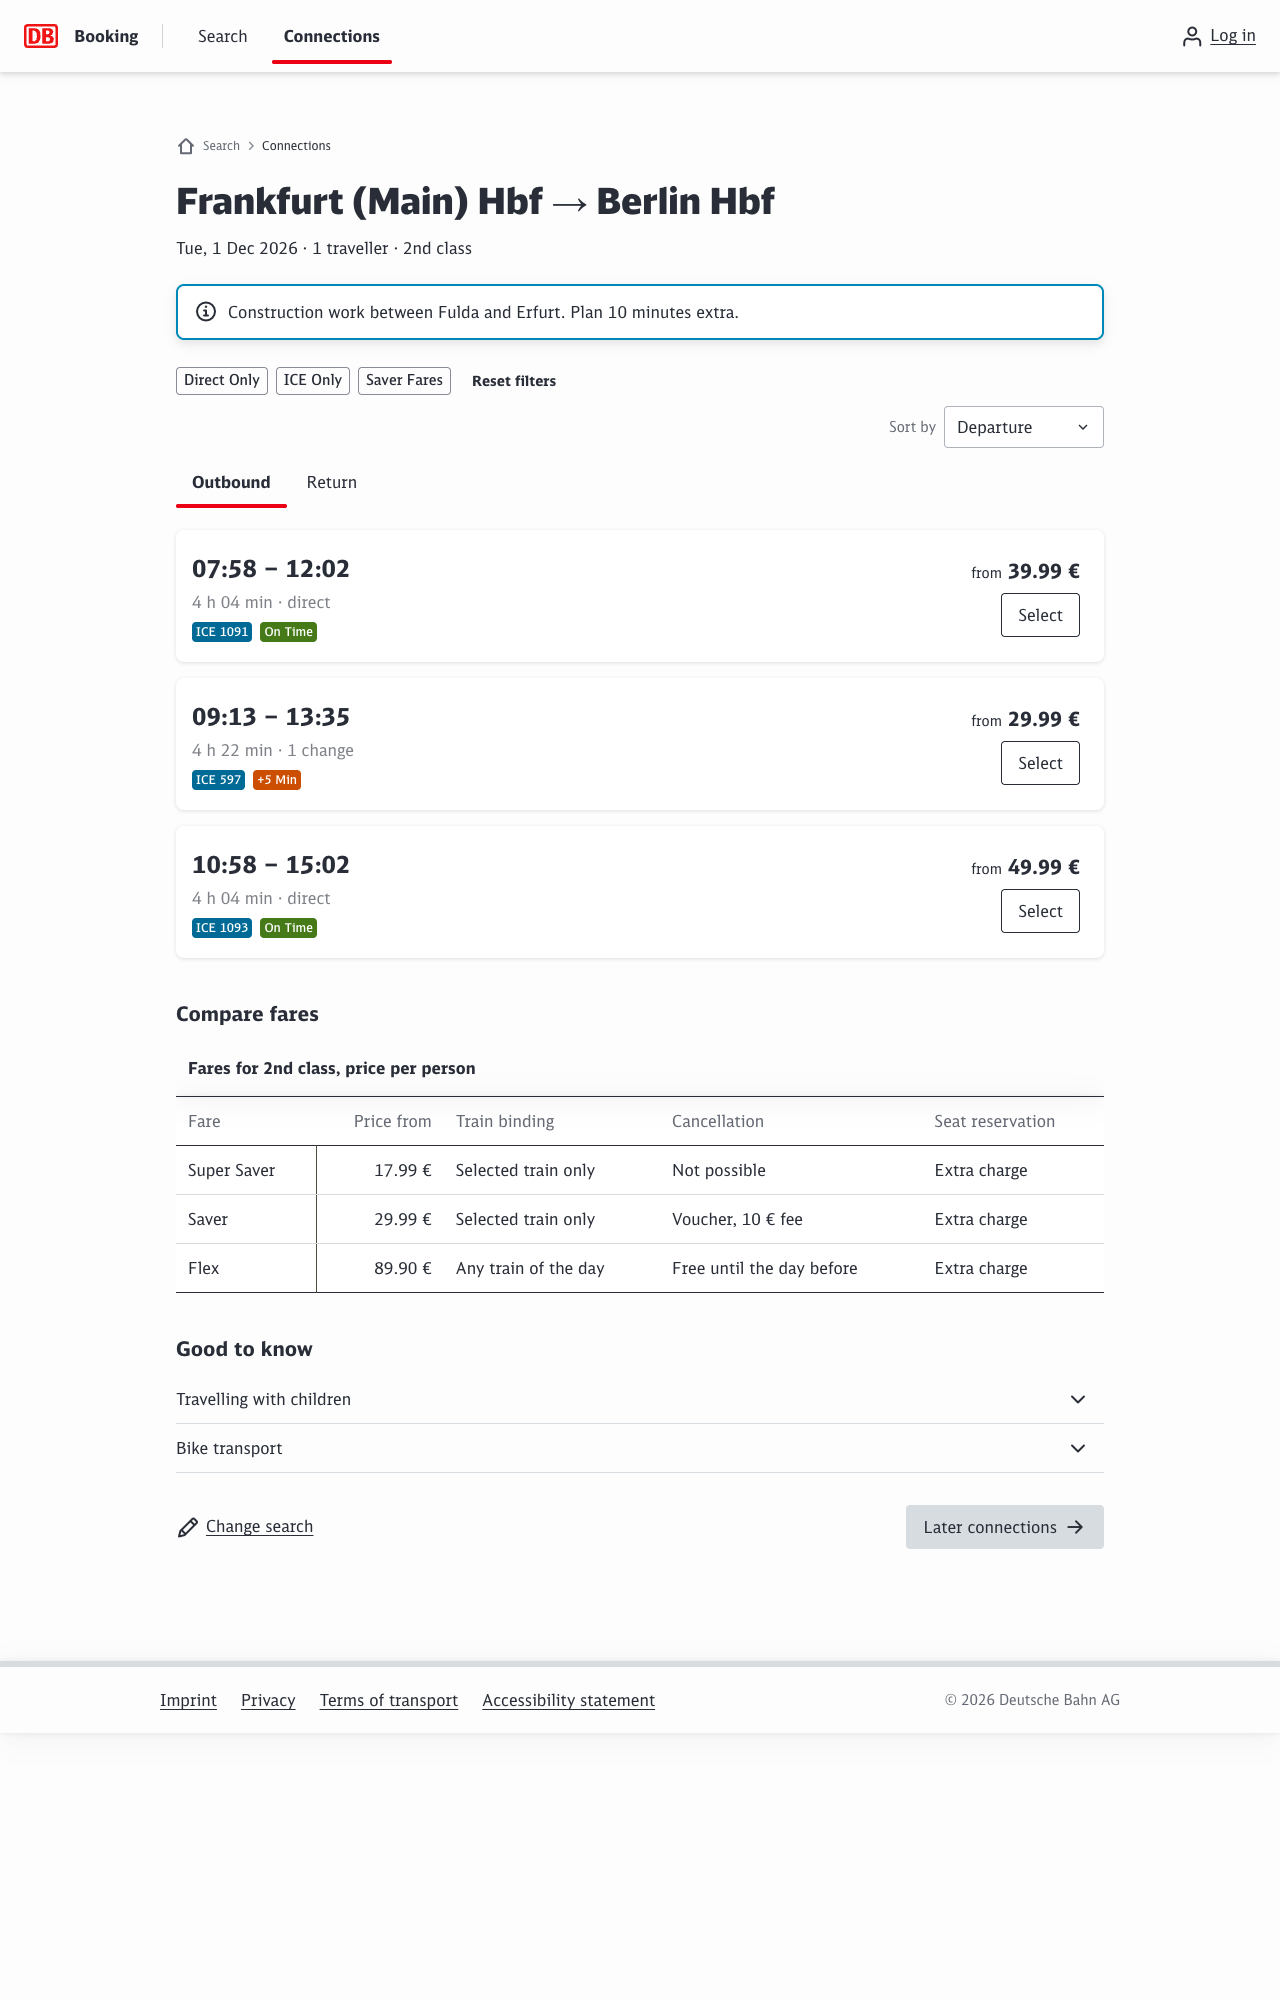
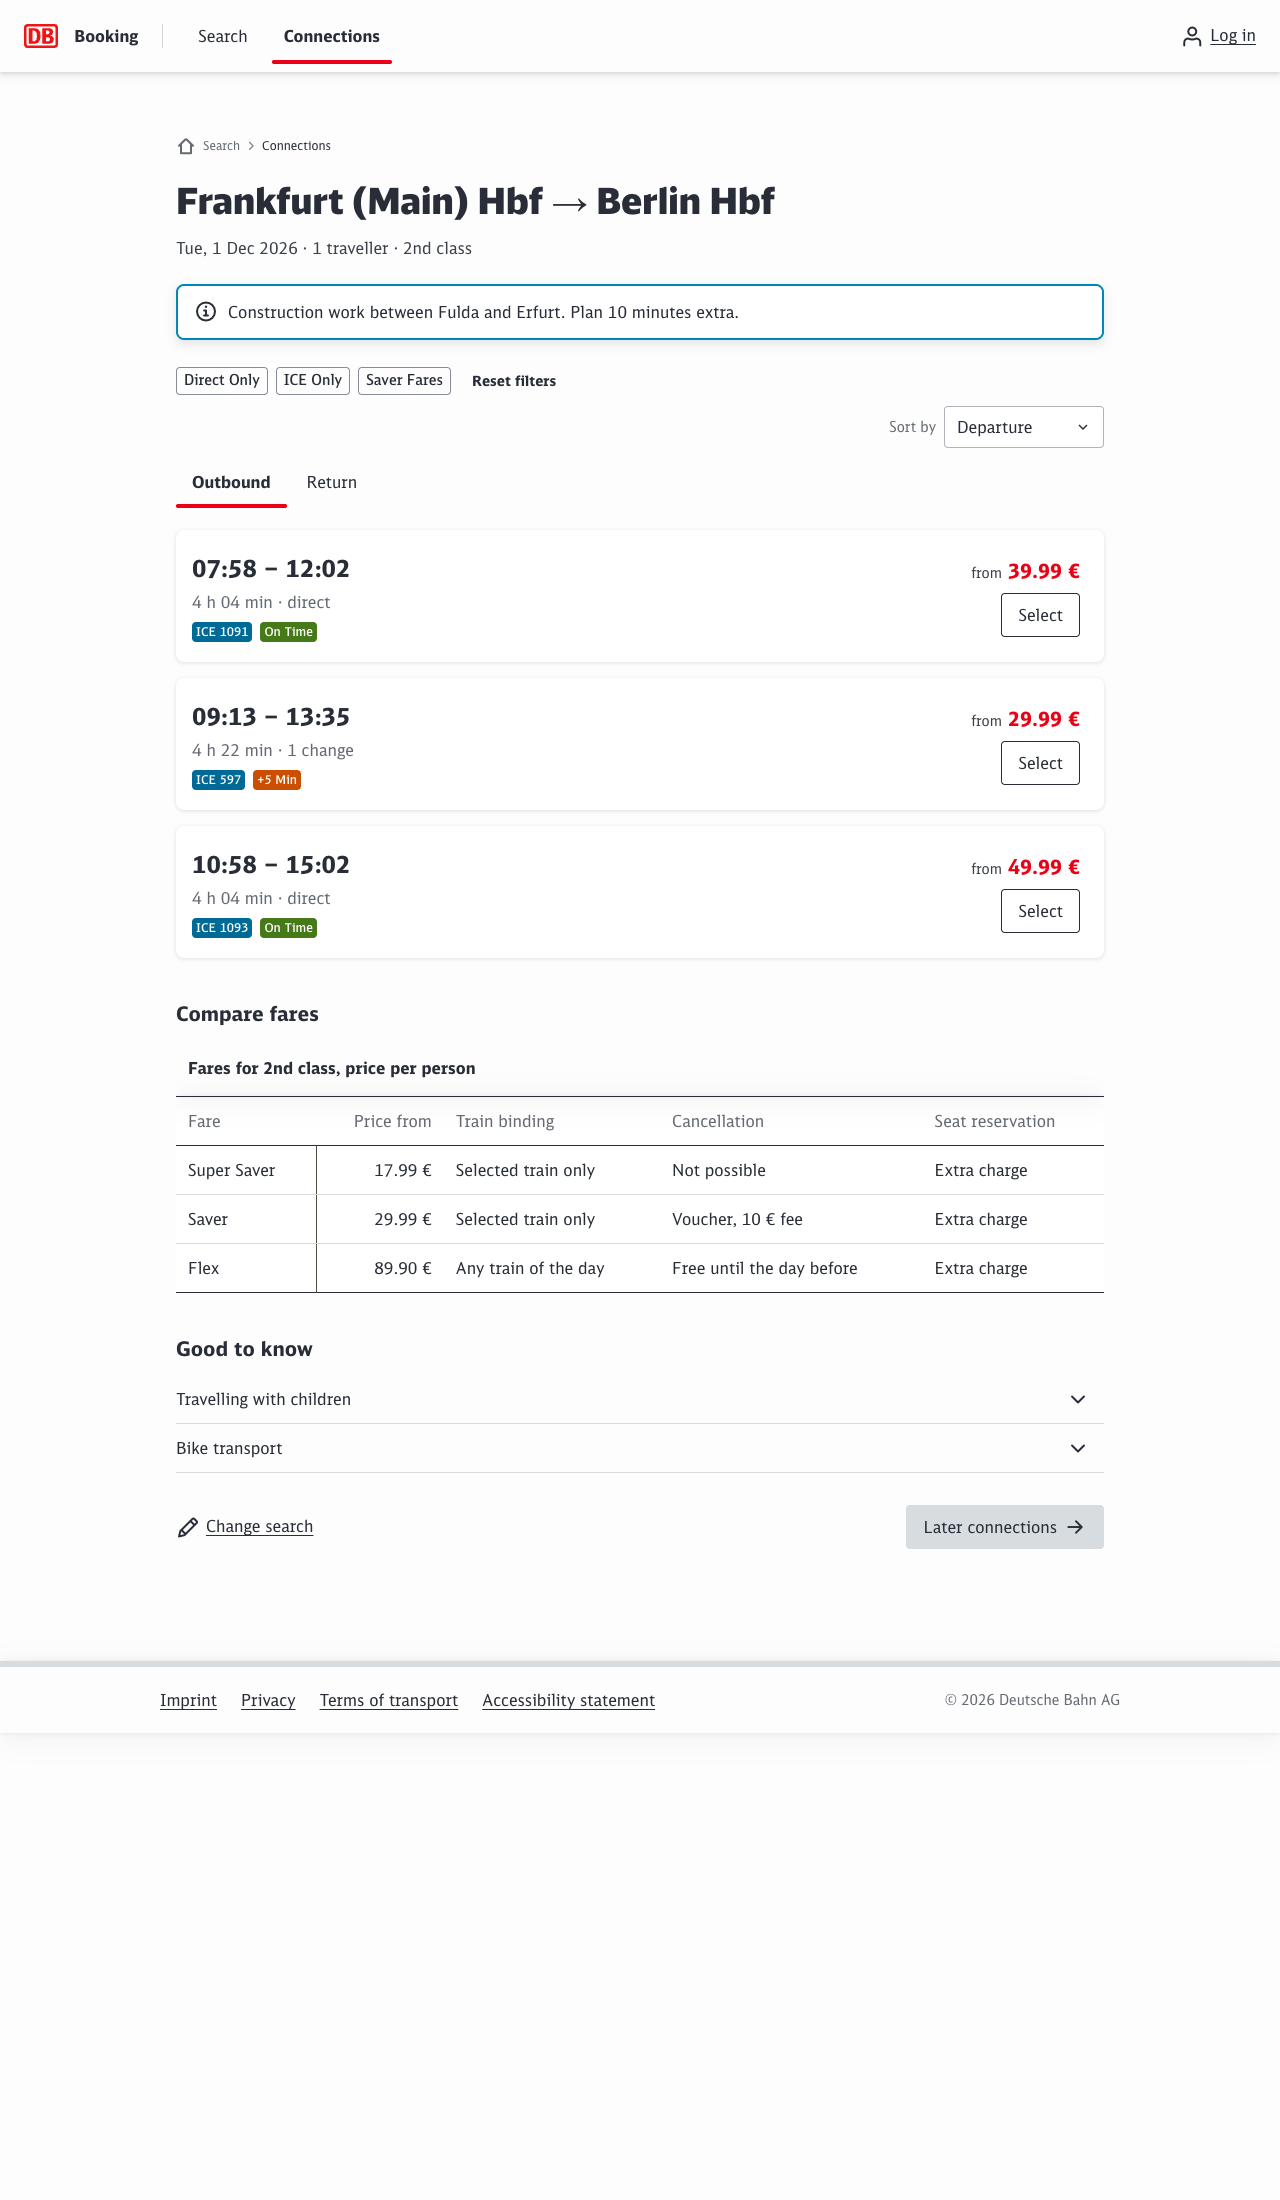
fix: load the Generation 2 color tokens and fix heading order and contrast
main.tsx now imports db-ui-core.vars.css, so the --db-color-* properties are defined. Connection headings are h2 after the h1, the meta text uses a gray token with 5.51:1 contrast, an empty favicon stops the 404, the README shows the Edge setup per OS and the screenshots show the fixed state.

diff --git a/src/ResultsPage.tsx b/src/ResultsPage.tsx
@@ -82,9 +82,9 @@ function ConnectionCard({ connection, onSelect }: ConnectionCardProps) {
 			<figure>
 				<figcaption className="connection-card__layout">
 					<div className="connection-card__details">
-						<h3 id={headingId} className="connection-card__times">
+						<h2 id={headingId} className="connection-card__times">
 							{connection.departure} – {connection.arrival}
-						</h3>
+						</h2>
 						<p className="connection-card__meta">
 							{connection.duration} · {connection.changes === 0 ? 'direct' : `${connection.changes} change`}
 						</p>

diff --git a/src/main.tsx b/src/main.tsx
@@ -2,6 +2,8 @@ import { StrictMode } from 'react';
 import { createRoot } from 'react-dom/client';
 // Generation 2 CSS framework: fonts, icons, color tokens and all elm-*, cmp-*, rea-* classes.
 import '@db-ui/core/dist/css/enterprise/db-ui-core.css';
+// The --db-color-* custom properties used in styles.css live in a separate file.
+import '@db-ui/core/dist/css/enterprise/db-ui-core.vars.css';
 import './styles.css';
 import { App } from './App';
 

diff --git a/index.html b/index.html
@@ -3,6 +3,8 @@
 	<head>
 		<meta charset="UTF-8" />
 		<meta name="viewport" content="width=device-width, initial-scale=1.0" />
+		<!-- No favicon: the empty data URL stops the browser from requesting /favicon.ico (404). -->
+		<link rel="icon" href="data:," />
 		<title>Booking – Generation 2 migration demo</title>
 	</head>
 	<body>

diff --git a/src/styles.css b/src/styles.css
@@ -143,7 +143,8 @@
 }
 
 .connection-card__meta {
-	opacity: 0.6;
+	/* A gray token instead of opacity: 0.6, which only reached 3.9:1 contrast. */
+	color: var(--db-color-cool-gray-500);
 	margin: 4px 0 8px;
 }
 

diff --git a/README.md b/README.md
@@ -86,7 +86,27 @@ Where the configuration lives:
 - **Kiro:** `.kiro/settings/mcp.json`. Open the MCP Server view in the Kiro panel and check that both servers are connected. Read-only tools are approved automatically, everything else asks you first.
 - **GitHub Copilot in VS Code:** `.mcp.json` in the project root. Run "MCP: List Servers" from the command palette and start both servers. `.vscode/mcp.json` stays for older VS Code setups.
 
-The Chrome DevTools MCP officially supports Google Chrome only. To use Microsoft Edge instead, add `--executablePath=<path to msedge>` to its arguments, at your own risk.
+The Chrome DevTools MCP officially supports Google Chrome only. To use Microsoft Edge instead, add `--executablePath` with the path to Edge as a separate entry at the end of the `chrome-devtools` arguments, at your own risk. Don't add it to the package entry `chrome-devtools-mcp@…`. Example for macOS:
+
+```json
+"args": [
+	"--yes",
+	"chrome-devtools-mcp@1.13.0",
+	"--isolated",
+	"--no-usage-statistics",
+	"--no-performance-crux",
+	"--executablePath=/Applications/Microsoft Edge.app/Contents/MacOS/Microsoft Edge"
+]
+```
+
+The path to Edge on other systems:
+
+| System | Value of `--executablePath` |
+| --- | --- |
+| Windows | `C:\\Program Files (x86)\\Microsoft\\Edge\\Application\\msedge.exe` (backslashes doubled for JSON) |
+| Linux | `/usr/bin/microsoft-edge` |
+
+Keep this change local and don't commit it.
 
 Ask the agent "Which DB UX tools do you have?" to confirm the connection.
 
